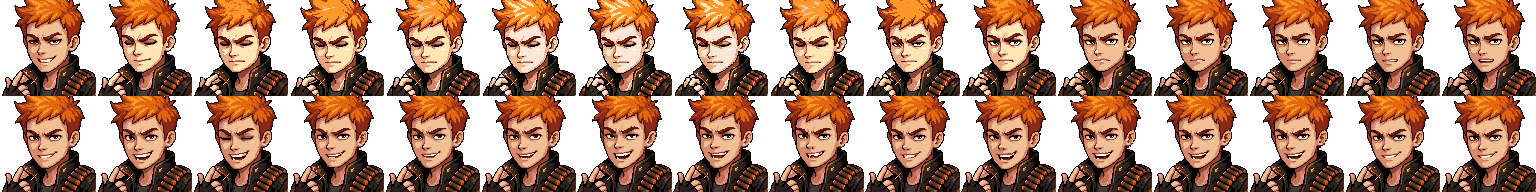
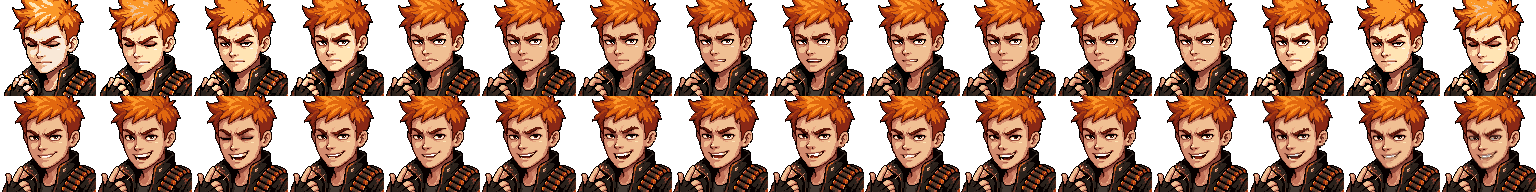
Polish character sprite sheets: seamless ping-pong idle loops, steadier frames; tighter idle prompt
Claude-Session: https://claude.ai/code/session_01KTGPHgov1KSS6g1jzDSq69

diff --git a/tests/ascent_art_guide.js b/tests/ascent_art_guide.js
@@ -20,7 +20,7 @@ for (const c of CH) MANIFEST.assets.push({
     id: c.id, group: 'characters', name: c.name, out: `spellslinger/art/characters/${c.id}.png`, kind: 'sheet', frame: [96, 96], cols: 16, rows: 2, seed: hash(c.id),
     steps: [
         { key: 'base', style: 'rd_pro__fantasy', width: 96, height: 96, prompt: charSubject(c), remove_bg: true },
-        { key: 'idle', style: 'rd_advanced_animation__idle', width: 96, height: 96, prompt: 'gentle breathing and one slow blink only, the mouth stays closed and completely still, the head barely moves, shoulders stay in place', frames_duration: 16, from: 'base' },
+        { key: 'idle', style: 'rd_advanced_animation__idle', width: 96, height: 96, prompt: 'a seamless idle loop: the very first and very last frame are the same pose. Gentle breathing and one slow blink only. The expression never changes from the starting drawing, the mouth stays closed and completely still, the head barely moves, shoulders stay in place, no lighting or color changes', frames_duration: 16, from: 'base' },
         { key: 'talk', style: 'rd_advanced_animation__custom_action', width: 96, height: 96, prompt: 'talking: the mouth opens and closes, the eyebrows move a little and the head tilts slightly, shoulders stay in place', frames_duration: 16, from: 'base' }
     ]
 });

diff --git a/tools/polish_sheets.py b/tools/polish_sheets.py
@@ -1,0 +1,154 @@
+#!/usr/bin/env python3
+"""Cleans up the character sprite sheets (spellslinger/art/characters/*.png) without calling the art service.
+
+The generated idle row isn't a loop: it starts on the base drawing, settles into a calm face and ends mid-blink, so replaying it
+pops every cycle. For each sheet this script
+  1. steadies the frames (removes whole-pixel wobble between frames, keeps slow movement such as breathing),
+  2. skips the settling-in frames at the start of the idle row,
+  3. picks the 9 frames with the most life and plays them forward then backward (a ping-pong of 16 frames), which loops with no seam,
+  4. steadies the talking row and fades its loop seam.
+Sheets stay 1536 x 192 (2 rows of 16 frames of 96 x 96), so the game needs no change. The originals are in git history.
+
+  python tools/polish_sheets.py            report only (what would change, seam before and after)
+  python tools/polish_sheets.py --write    rewrite the sheets in place
+  python tools/polish_sheets.py --only t1-mick --write
+"""
+import argparse
+import sys
+from pathlib import Path
+
+try:
+    import numpy as np
+    from PIL import Image
+except ImportError:
+    sys.exit('Needs numpy and Pillow:  pip install numpy pillow')
+
+ROOT = Path(__file__).resolve().parent.parent
+DIR = ROOT / 'spellslinger' / 'art' / 'characters'
+W = H = 96
+COLS = 16
+WINDOW = 9  # forward 9 + backward 7 = 16 frames, a seamless ping-pong
+
+
+def rows_of(im):
+    a = np.asarray(im.convert('RGBA'), dtype=np.float32)
+    return [[a[r * H:(r + 1) * H, c * W:(c + 1) * W] for c in range(COLS)] for r in (0, 1)]
+
+
+def gray(f):
+    return f[..., :3].mean(axis=2) * (f[..., 3] / 255.0)
+
+
+def diff(a, b):
+    return float(np.abs(a - b).mean())
+
+
+def shift(f, dx, dy):
+    """Moves a frame by whole pixels, filling the edge by repeating the nearest pixel (the portraits are full-bleed)."""
+    if not dx and not dy:
+        return f
+    p = 4
+    padded = np.pad(f, ((p, p), (p, p), (0, 0)), mode='edge')
+    return padded[p - dy:p - dy + H, p - dx:p - dx + W]
+
+
+def best_shift(ref, f, r=3):
+    g0, g1 = gray(ref), gray(f)
+    best, arg = None, (0, 0)
+    for dy in range(-r, r + 1):
+        for dx in range(-r, r + 1):
+            s = np.abs(g0[r:-r, r:-r] - np.roll(np.roll(g1, dy, 0), dx, 1)[r:-r, r:-r]).mean()
+            if best is None or s < best:
+                best, arg = s, (dx, dy)
+    return arg
+
+
+def steady(frames):
+    """Removes jitter: each frame's offset from the median frame is smoothed over its neighbours, and only the difference is undone."""
+    ref = np.median(np.stack(frames), axis=0)
+    sh = np.array([best_shift(ref, f) for f in frames], dtype=np.float32)
+    smooth = sh.copy()
+    for i in range(len(sh)):
+        lo, hi = max(0, i - 2), min(len(sh), i + 3)
+        smooth[i] = sh[lo:hi].mean(axis=0)
+    out = []
+    for f, s, m in zip(frames, sh, smooth):
+        out.append(shift(f, int(round(s[0] - m[0])), int(round(s[1] - m[1]))))
+    return out
+
+
+def seam(frames):
+    steps = [diff(frames[i], frames[i + 1]) for i in range(len(frames) - 1)]
+    return round(float(np.mean(steps)), 1), round(diff(frames[-1], frames[0]), 1)
+
+
+def pick_window(frames):
+    """Skips the settling-in frames, then takes the WINDOW frames that move the most."""
+    ref = np.median(np.stack(frames[8:]), axis=0)
+    d = [diff(f, ref) for f in frames]
+    base = float(np.median(d[8:])) + 0.5
+    start = 0
+    while start < len(frames) - WINDOW and d[start] > base * 1.6:
+        start += 1
+    # candidate windows: keep the ones with at least 40% of the best movement, then take the one with the smallest biggest jump
+    cands = []
+    for st in range(start, len(frames) - WINDOW + 1):
+        steps = [diff(frames[i], frames[i + 1]) for i in range(st, st + WINDOW - 1)]
+        cands.append((st, sum(steps), max(steps)))
+    top = max(c[1] for c in cands)
+    ok = [c for c in cands if c[1] >= top * 0.4] or cands
+    a = min(ok, key=lambda c: (c[2], -c[1]))[0]
+    return a, start
+
+
+def pingpong(win):
+    return win + win[-2:0:-1]  # 9 forward + 7 back = 16, the end frames are not repeated
+
+
+def fade_seam(frames, k=3):
+    """Blends the last k frames toward the first so a loop that isn't perfect still closes."""
+    out = list(frames)
+    n = len(out)
+    for i in range(k):
+        w = (i + 1) / (k + 1)
+        out[n - k + i] = out[n - k + i] * (1 - w * 0.5) + out[i] * (w * 0.5)
+    return out
+
+
+def build(path, write):
+    im = Image.open(path)
+    if im.size != (COLS * W, 2 * H):
+        return f'{path.name}: skipped (size {im.size})'
+    idle, talk = rows_of(im)
+    b_idle, b_talk = seam(idle), seam(talk)
+    idle_s = steady(idle)
+    a, start = pick_window(idle_s)
+    idle_new = pingpong(idle_s[a:a + WINDOW])
+    talk_new = fade_seam(steady(talk))
+    a_idle, a_talk = seam(idle_new), seam(talk_new)
+    if write:
+        sheet = np.zeros((2 * H, COLS * W, 4), dtype=np.float32)
+        for r, row in enumerate((idle_new, talk_new)):
+            for c, f in enumerate(row):
+                sheet[r * H:(r + 1) * H, c * W:(c + 1) * W] = f
+        Image.fromarray(np.clip(sheet.round(), 0, 255).astype(np.uint8), 'RGBA').save(path, 'PNG')
+    return (f'{path.stem:<16} idle step/seam {b_idle[0]:>4}/{b_idle[1]:>4} -> {a_idle[0]:>4}/{a_idle[1]:>4}   '
+            f'talk seam {b_talk[1]:>4} -> {a_talk[1]:>4}   (settle-in: first {start} frames skipped, window {a}-{a + WINDOW - 1})')
+
+
+def main():
+    ap = argparse.ArgumentParser()
+    ap.add_argument('--write', action='store_true')
+    ap.add_argument('--only')
+    a = ap.parse_args()
+    files = sorted(DIR.glob('*.png'))
+    if a.only:
+        files = [f for f in files if f.stem in a.only.split(',')]
+    for f in files:
+        print(build(f, a.write))
+    if not a.write:
+        print('\nReport only. Add --write to rewrite the sheets (originals stay in git history).')
+
+
+if __name__ == '__main__':
+    main()

diff --git a/CLAUDE.md b/CLAUDE.md
@@ -371,7 +371,8 @@ The owner's fan-made test game (renamed from "Moonshot Duels"): open packs, buil
 - **Samut, Hazoret's Champion deck (2026-10-16, reworked 2026-10-16: owner asked for big bombs through mana rocks and card draw, 7-8 mana by turn 4, same $200-300 budget):** mono-red ramp in `VERIFIED_DECKS` (key `samut`, `style: 'ramp'`, shown in Starter decks and as a Commander opponent). 99 cards, every one Automated and Commander-legal, red-only identity: 24 Mountains + 5 utility lands, about 29 rocks, rituals and mana creatures (Sol Ring, Mana Vault, Gilded Lotus, Thran Dynamo, Jeska's Will, Seething Song...), 10 card-draw pieces (Wheel of Fortune, Big Score, Skullclamp, Outpost Siege...) and about 20 bombs (Terror of the Peaks, Goldspan Dragon, Inferno Titan, Bonehoard Dracosaur, Embercleave...). **Price:** about $284 at the cheapest paper printing (Scryfall `prices.usd`, 2026-10-15; Mana Vault $92, Jeska's Will $40, Terror $26, Bonehoard $15, Ruby Medallion $14, Goldspan $11). Prices move; treat it as a budget guide. **Results** (lab, 150 random 4-player pods, style ramp): seat A won 51.3% (25% is a fair share; noise about 4 points). **Honest ramp numbers** (`/tmp` probe, measured at the combat step of A's own turn): average mana capacity 5.2 on its 4th turn, 7+ mana in 22% of games and 8+ in 12%; 6.2 on turn 5 (38% at 7+). The deck has enough rocks; what holds the number down is the AI, which casts creatures and spells before rocks (a mana rock scores 9, a creature 10 + 2 x cost), and a land-light or rock-light draw. To help, `rampUrgency` (`07b-playstyles.js`) gives a **Ramp-style computer player** a bonus for mana pieces when its hand holds expensive cards, so every Ramp bot now ramps sooner (pod results for the other styles shift a little). **Probe tooling:** the first line of a lab decklist `# style: ramp` picks the playstyle; `tests/lib/lab-page.js` wraps turns with a mana probe when `--decka` is used. **Fixed on the way:** Cut a Deal drew you a card for every card the opponents drew (now one per opponent who drew, `cutDeal`; test in `tests/suites/pod.js`); a spell that resolved onto the battlefield from someone else's zone kept its old controller field, so a later "gain control" effect left it in two battlefields and hung the game (`06-engine.js` spell resolution and `steal` now check). The list is `tests/decks/samut-hazorets-champion.txt`; `node tests/suites/cards.js cmdr` plays every card.
 - **Planeswalker's Ascent (campaign rebuild in progress, started 2026-10-18; plan in `docs/spellslinger-ascent-plan.md`):** replaces the old Campaign ladder and Precon Circuit once the screen is built (not yet; the old Campaign still runs). Done so far: the roster (`node tests/ascent_roster.js` writes `spellslinger/data/ascent-roster.json`, 2,042 cards on 2026-10-19 (1,479 pack cards + 563 trophies): vanilla, plain-keyword and simple-ability creatures, one-effect draw / destroy / exile / bounce / burn / shrink / pump spells, mana rocks, tapped duals, basics; rarity and tier by strength). **Wider pool (2026-10-19, owner: "mana dorks ... universal mana dorks ... more cards ... bigger and more diverse"):** creatures may now have up to two simple abilities from `ABILITY_RULES` in the builder: mana dorks (`{T}: Add {X}`, 30 cards), universal dorks (`{T}: Add one mana of any color`, 17 cards, kind `anydork`, tier 3), enters effects (gain life, draw, scry, each opponent discards or loses life, pump or +1/+1 counter on a creature, damage), dies effects (gain life, draw), firebreathing pumps and regenerate (263 `ability` creatures); plus landwalk, flash, shroud, fear and prowess keywords, 4 plain mana rocks (kind `rock`, type spell, no upgrades) and a basic-land ramp spell. Dorks and rocks are never in tier 1; universal ones are tier 3. Opponents' deck scoring likes mana makers for stomp / tempo / control and draw creatures for control / tempo / value. The Aether tap upgrade (`anymana`, 80 Aether, one ability per copy, not on cards that already tap for mana) gives any creature `{T}: Add one mana of any color`. **Trophies (2026-10-19, owner: "a method of ascertaining super powerful cards by getting so many wins from an opponent ... make the roster big"):** 563 trophy cards (rarity `trophy`, `kind: 'trophy'`) are in the roster file: any fully Automated, non-land, at most two colors, EDHREC rank 1200 or better card that isn't already in the roster (Auras, Sagas, Classes, Equipment, Vehicles, planeswalkers and battles left out; legendary allowed), strength = how played it is. Each of the 18 opponents holds 10 (`ascentTrophies`, deterministic, none shared, in the opponent's colors; tier 3 opponents hold the strongest, bosses a bit more) and awards one at exactly 3, 6, 10, 15, 20, 25, 30, 40, 50 and 75 wins against it (`ASCENT_TROPHY_WINS`; wins counted in `profile.ascent.wins[oppId]` by `ascentResult`, and the result line says "🏆 TROPHY ..."). They are never in packs, never craftable, dustable or upgradable, one copy each, and never played by the computer. The opponent panel shows all ten with their win counts; the collection has a 🏆 Trophy rarity filter and the card dialog says which opponent and how many wins. A new opponent colour pool may need more trophies: raise `TROPHY_MAX_RANK` in `tests/ascent_roster.js` and rerun it and `spellslinger/13c-ascent.js`: the exact 14-slot Play Booster (6 commons, 3 uncommons, rare with a 1-in-7 mythic, foil slot, wildcard 1-in-6 foil, basic, The List slot: a dual land or 1 in 8 a rare/mythic), the Collector Booster (14 foils, 5+ rares), the rule of 4 (5th copy dusts to Aether; basics unlimited), Aether (dust 5/20/60/200 by rarity, foil double; craft 20/80/240/800, foil double). Ascent has its own collection, decks and Aether in `profile.ascent` (`ascentState()`), separate from Sandbox and the Shop. `tests/suites/ascent.js` checks the odds over 20,000 packs.
   - **Gauntlet (step 3, `spellslinger/13d-ascent-gauntlet.js`):** `ASCENT_TIERS` (The Locals / easy AI, Friday Grinders / normal, The Pro Circuit / hard) and `ASCENT_OPPONENTS`: 18 opponents, five per tier plus a Planeswalker boss that opens after the other five; a tier opens when the one before it has its boss beaten. Each opponent has colors, an archetype (stomp, weenie, fliers, value, burn, control, tempo) and a playstyle. Its 40-card deck (17 lands, 23 spells, max 4 copies, tapped duals from tier 2) is built from the roster with a seeded generator, so it is the same every time (`ascentOpponentDeck`); tier 1 decks are nearly all creatures. **Signature cards** (`ascentSignatures`): 3 rare/mythic cards per opponent (4 for a boss, up to one tier above its own), never shared and never in packs, played by that opponent and dropped by it (always on the first win, 35% on later wins), which gives players a card to farm for. Prizes (`ascentResult`, called from `campaignResult` in `13-campaign.js` when `G.campaign.ascent`): a win adds a Play Booster to `profile.ascent.sealed` (unopened; the screen opens them), a boss adds 2 Play Boosters and a Collector Booster, a loss pays 5 Aether. `ascentStarter(color)` gives a one-color tier-1 deck and 3 packs once. `startAscentMatch(oppId, deckIndex)` starts a game; `ascentDeckProblems` checks owned copies and 40 cards. Rarity was rebalanced so mythics are about 8% of the non-land roster (ranked inside each type and color; `node tests/ascent_roster.js`). `node tests/lab.js --kind ascent` plays the 18 opponents against each other offline (360 games: 0 hangs or errors, median 16 turns). **Card upgrades (2026-10-18, owner's request: "upgrade cards to put more mechanics on them"; `spellslinger/13e-ascent-upgrades.js`, `tests/suites/ascentupg.js`):** owned cards are now per copy (`profile.ascent.owned[id] = { n, f, c: [{ k, f, u }] }`, `ascentOwnedEntry`, `ascentSyncOwned`; basics stay counts). A copy carries up to 2 upgrades (3 on a mythic) from `ASCENT_UPGRADES`: 10 keywords (first strike, vigilance, reach 30 Aether; trample, haste, lifelink 45; flying, deathtouch, menace 60; hexproof 75), 3 stat boosts (+1/+1, +2/+0, +0/+2; one per copy), 3 triggers (enters: draw a card; dies: gain 3 life; enters: gain 2 life; one per copy) and 2 spell extras (cantrip, gain 3 life). Price = base x rarity (common 1, uncommon 1.5, rare 2, mythic 3), paid in Aether and/or by feeding in spare plain copies of the same card (each covers 2x its dust value; `upgradeAscentCopy(key, upgradeId, sacrificeKeys)`). `swapAscentUpgrade` swaps or removes one for a quarter of the old upgrade's price (plus the new one's price). `ascentUpgradeBlocked` says why a copy can't take one. An upgraded copy plays as its own card (`ascentVariantCard`: id `<card id>~<upgrade ids>`, text and P/T rewritten, so the card reader understands it with no new rules; never saved in the card cache: ids with `~` are skipped by `persistCards`). Decks list their chosen copies in `deck.sel` (`ascentNormalizeDeck` fills it, upgraded copies first); `ascentPlayableCards` swaps in the variants; hand dusting skips copies in decks and upgraded ones unless named. Every card with every upgrade it can take reads as Automated (tested over the whole roster). The lab's ascent kind puts random upgrades on about 40% of the spell slots. **The screen (step 5, `spellslinger/13f-ascent-screen.js`, `tests/suites/ascentui.js`):** the Campaign tab now shows `#ascentApp` (`renderAscent`, called from `showView('campaign')`) with four tabs: **Map** (starter color pick, the 18 opponents by tier, an opponent panel with its signature cards and a Battle button), **Packs** (open Play / Collector Boosters from `profile.ascent.sealed`, 14 face-down cards to flip, extra copies shown as dusted), **Collection** (filters, 36 a page, a card dialog to craft, dust and open the upgrade dialog per copy) and **Decks** (deck list, per-copy chips to put exact copies in, basics, rename / delete). The old ladder and Precon Circuit are not deleted: they sit folded in `<details id="oldCampaign">` at the bottom and render only when opened (owner to say when they can go). The Packs and Collection & Decks tabs of Campaign mode still show the normal game's; Ascent is self-contained. No sideways scroll at 360 / 768 / 1280px. Starter decks top up creatures (up to 4 copies) before adding lands. **Campaign mode is self-contained and has characters and effects (2026-10-18, owner's request: "Campaign mode to have everything for itself", character profiles for Retro Diffusion sprites with placeholder dialogue, and animations while playing):** Campaign mode's tabs are now Home, Campaign and Rules only (`MODES.campaign.views`); the header shows ✨ Aether (`#aetherPill`) instead of coins and shop cash. **Characters** (`spellslinger/13g-ascent-art-data.js`, data only): 18 opponents plus 4 helpers (Pip the Guide on Map, Mara the Packmaster on Packs, Brindle the Aether Smith on Collection, Wren the Deckwright on Decks), each with a look, palette, mood and placeholder dialogue (intro, win, lose, taunt, tip). Dialogue shows in the opponent panel, in a "Let's play" prompt before a battle (`ascPlay` / `ascGo`) and as quotes on the result line (`ascentResult`); the taunt lines aren't used in games yet. **Art pipeline** (`13h-ascent-art.js`): the game looks once per page load for `spellslinger/art/characters/<id>.png` (1536 x 192 sheet, 2 rows of 16 frames of 96 x 96 head-and-shoulders portraits: idle, talking (16 is the most the service offers; sheets of 4 or 8 frames per row and the oldest 256-wide full-body sheets still display: the page reads the sheet's width, `ASC_ART.cols`)), `spellslinger/art/fx/<kind>.png` (horizontal strips) and uses them when they exist (`ascProbeArt`); until then it shows an emoji portrait (`.asc-portrait.ph`, bobs while talking) and a colored burst. **Effects while playing** (`ASCENT_FX`, 19 kinds): `fire()` calls `ascFxHook` for `enters` and `cast`: a land (one per basic color W/U/B/R/G, one for nonbasic), a creature when it enters (mono-color per color, colorless, multicolor; tokens skipped), and each non-creature spell when cast (instant, sorcery, artifact, enchantment, planeswalker, battle). `ascFxPlay` draws the effect over the card or the middle bar at 2x (max 4 at once, never throws). They play in every game, not only Ascent, and are off in autoplay, the lab and reduced motion; a checkbox on the Ascent screen turns them off (`ascentFx` in saved data); tests force them with `window.__FX_FORCE`. **Prompts for Retro Diffusion:** `node tests/ascent_art_guide.js` writes `docs/ascent-art-prompts.md` (every character, the 19 effects, 9 later ideas and 70 icons, banners and backgrounds, each with size, frames, file path and a copy-paste prompt). Edit the data file and rerun it; the icon and background list is not wired into screens yet. Retro Diffusion's style names weren't checked (it can't be run from here). `tests/suites/ascentart.js` covers all of it.  **Making the art (2026-10-21, owner's request):** `tools/make_art.py` (needs `requests` and `Pillow`; key from the `RD_API_KEY` environment variable only, never committed) reads `docs/ascent-art-manifest.json` (also written by `ascent_art_guide.js`) and calls the Retro Diffusion v2 API: free dry run by default (live style/size check, `check_cost` per step), `--go` to spend, `--only`, `--group characters,fx` (default; `ideas`, `icons` aren't wired in), `--max-spend`, `--force`, `--seed-bump`. A character = `rd_pro__fantasy` base (64x96) then `rd_advanced_animation__idle` and `__custom_action` from it, 16 frames each into the 1536x192 sheet (owner: 4 frames looked choppy, then asked for more; extra frames cost nothing, the service charges per animation; when the service returns fewer frames than a strip wants, the script holds frames instead of repeating the loop) (about $0.57 each, 22 = about $12.5); an effect = `rd_animation__vfx` (24-96px, scaled by whole steps, e.g. 128) (about $0.07 each). Steps cache in `tools/.art-cache/` (git-ignored). `--redo idle[,talk]` remakes only those steps of the chosen assets from the cached base drawing (add `--seed-bump 1` for a different result). A portrait talks for 3 seconds then settles into the idle row (CSS `.asc-portrait.sprite.talk`; only the Let's play prompt talks: the Map, the helpers and the opponent panel idle); the base prompt asks for a closed mouth and the idle prompt for a still mouth. Tested only against a mock server (this environment can't reach the API); the first real run should be one character.
-  - **White, tokens, anthems and losing (2026-10-19, owner: "white might have the most... but they suck", "token synergies as well as adding anthems"):** the roster builder (`tests/ascent_roster.js`) now reads **token makers** (instants and sorceries "Create N P/T ... creature tokens", optionally with flying / vigilance / lifelink / first strike: kind `tokens`, 24 cards), **anthems** (Enchantments "Creatures you control get +N/+N", "White creatures ...": kind `anthem`; and "Creatures you control have <keyword>": kind `grant`; both have `perm: true`), **lords** (creatures with "Other creatures you control get +1/+1", small or tribal versions, "Other creatures have <keyword>": kind `lord`), **token creatures** ("When ~ enters, create ... token": kind `tokencreature`, 49 cards) and conditional removal ("Destroy target creature with power / toughness N or greater", "Exile target attacking / tapped creature"). 96 cards added (roster 2,138 with the 563 trophies); nothing was removed. `ascentArchScore` rates them for weenie, fliers, value and tempo decks, so Annie and the other white and token opponents now play them. Anthems and grants take no spell extras (`ascentUpgradeBlocked`). **White starter** (`ascentStarterHelp`, `ascentStarterCards`): 3+1 token makers, 1 of the cheapest anthem and 1+1 cheap uncommon fliers, then tier 1 commons (first built stronger, then trimmed; see the starter table in the blue bullet). Before this help W won 47% vs Mossback Mick and 20% vs Candle Annie. Reproduce with `LAB_PAIR=W,t1-mick node tests/lab.js --kind ascent --n 100 --conc 5 --lb easy` (`LAB_PAIR` = starter color, opponent id). **Losses pay** (`ASCENT_PRIZE`, `ascentResult`): 5 Aether, or 15 while the deck has fewer than 3 rare-or-better cards (`ascentDeckIsRough`, so only new or stuck players get it; `G.campaign.deckIndex` says which deck played), and every second loss in a row gives a Play Booster (`st.lossStreak`; a win resets it). A win is still worth a pack every time. Tests: `tests/suites/ascentdecks.js`.
+  - **Sprite polish (2026-10-21, owner: "clean up ... get the animations looking tip top ... smooth ... still a bit rough"):** the generated idle rows weren't loops (they began on the base drawing, settled to a calm face and ended mid-blink, so each cycle popped; seams were 2-4 times a normal frame step). `python tools/polish_sheets.py [--write] [--only id]` (numpy + Pillow, no API calls) steadies whole-pixel wobble, skips the settling-in frames, picks the 9 calmest-but-lively frames and plays them forward then back (a 16-frame ping-pong, seamless by construction), and steadies the talking row with a soft seam fade; sheets stay 1536 x 192. Run on all 19 sheets: seams fell from about 20 to about 5 (Leo 21.7 to 0.4, Marcus's worst jump 50 to 12). Marcus's hood glow still pulses (his drawing has a light effect). The idle prompt in `tests/ascent_art_guide.js` now asks for a seamless loop with an unchanging expression for future `--redo idle` runs. Running polish twice would shorten the loop again, so run it once per freshly generated sheet.
+- **White, tokens, anthems and losing (2026-10-19, owner: "white might have the most... but they suck", "token synergies as well as adding anthems"):** the roster builder (`tests/ascent_roster.js`) now reads **token makers** (instants and sorceries "Create N P/T ... creature tokens", optionally with flying / vigilance / lifelink / first strike: kind `tokens`, 24 cards), **anthems** (Enchantments "Creatures you control get +N/+N", "White creatures ...": kind `anthem`; and "Creatures you control have <keyword>": kind `grant`; both have `perm: true`), **lords** (creatures with "Other creatures you control get +1/+1", small or tribal versions, "Other creatures have <keyword>": kind `lord`), **token creatures** ("When ~ enters, create ... token": kind `tokencreature`, 49 cards) and conditional removal ("Destroy target creature with power / toughness N or greater", "Exile target attacking / tapped creature"). 96 cards added (roster 2,138 with the 563 trophies); nothing was removed. `ascentArchScore` rates them for weenie, fliers, value and tempo decks, so Annie and the other white and token opponents now play them. Anthems and grants take no spell extras (`ascentUpgradeBlocked`). **White starter** (`ascentStarterHelp`, `ascentStarterCards`): 3+1 token makers, 1 of the cheapest anthem and 1+1 cheap uncommon fliers, then tier 1 commons (first built stronger, then trimmed; see the starter table in the blue bullet). Before this help W won 47% vs Mossback Mick and 20% vs Candle Annie. Reproduce with `LAB_PAIR=W,t1-mick node tests/lab.js --kind ascent --n 100 --conc 5 --lb easy` (`LAB_PAIR` = starter color, opponent id). **Losses pay** (`ASCENT_PRIZE`, `ascentResult`): 5 Aether, or 15 while the deck has fewer than 3 rare-or-better cards (`ascentDeckIsRough`, so only new or stuck players get it; `G.campaign.deckIndex` says which deck played), and every second loss in a row gives a Play Booster (`st.lossStreak`; a win resets it). A win is still worth a pack every time. Tests: `tests/suites/ascentdecks.js`.
   - **Starter balance and blue (2026-10-19, owner: "fix blue ... more sauce and maybe even more cards"):** measured every color's starter against the five tier 1 opponents (easy AI, 80 games each, `LAB_PAIR=<color>,<oppId> node tests/lab.js --kind ascent --n 80 --conc 5 --lb easy`). Before: W 75% average, G 61, R 60, B 56, **U 35** (6 to 14% against Annie, Tess and Gus). Red was fine (60%; its weak spots are the two flier decks), so it was left alone. The roster builder now also reads **counterspells** ("Counter target spell / creature spell / noncreature spell", optionally "unless its controller pays {N}": kind `counter`, `n` = the tax, 9 = unconditional, 8 = conditional on spell type), **bounce with a card** (kind `bounce`, `n` 1), **tap spells** (kind `tap`) and blue **tempo creatures** (kind `tempocreature`: "can't be blocked", "whenever ~ deals combat damage to a player, draw a card", enters: bounce a creature (Man-o'-War), tap a creature, or loot), plus Merfolk / Wizard / Faerie / Pirate / Bird / Illusion / Sphinx / Drake / Rogue tribal lords. 49 cards added (blue about 240 non-trophy cards); 3 cards that were trophies moved into the pool (trophy count 560). The blue starter (`ascentStarterHelp('U')`): 2+2 cheap fliers, 2 Man-o'-War style creatures, a bounce spell, a draw spell and a counterspell (highest tax first). After trimming (80 games each, vs Mick / Annie / Tess / Gus / Cal): **U 80 / 58 / 71 / 46 / 71 (65% average), W 79 / 61 / 80 / 50 / 73 (69%)**; G, R and B unchanged. Aim: every starter between about 55 and 70%; the lab AI plays better than most people, so these are relative numbers. `ascentArchScore` rates counters, taps and tempo creatures for tempo and control decks (Tess, Gus-style value). Tests: `tests/suites/ascentdecks.js`.
   - **Modules: effects by mana value, unlocked by scrapping (2026-10-19, owner: "a robust system of providing upgrades ... fun and grindy ... effects appropriate for mana values, bigger mana valued cards have some of the most game warping effects"; replaces the flat upgrade list in `13e-ascent-upgrades.js`, ids of the old 19 kept so saved copies still work):** `ASCENT_UPGRADES` now has about 90 modules, each with `cols` (colors it fits, or `C` for any card), `grade` and `cost`. **Grade from the card's mana value** (`ascentGrade`): 1 Minor (0-2), 2 Solid (3-4), 3 Strong (5), 4 Game-warping (6+); a card takes modules up to its own grade, so the big effects (wrath, reanimate, draw three, four counters, exile a creature, other creatures +2/+2, 5 damage...) only fit 6+ mana cards, and a 1-drop gets small tricks (first strike, scry, firebreathing, a green mana tap). **Color** (`ascentColorFit`): a card takes modules of its colors; a colorless card takes any for +50%; `C` modules fit all. Every color has creature and spell modules in all four grades (tested). Effects are written into the card's text as rules lines, so the card reader needs nothing new; every module was checked to read as Automated (`tests/suites/ascentupg.js` reads every card with every module it can take, and the lab puts one to three random modules on 40% of spell slots). **Price** (`ascentUpgradeCost`) = module base x rarity (1 / 1.5 / 2 / 3) x a steep stack factor for the Nth module on the same copy (`ASCENT_STACK_COST` 1, 1.5, 2.5, 4, 7, 12; at most `ASCENT_MAX_MODULES` = 6), paid in Aether and/or spare plain copies; base prices run about 20-45 (Minor), 60-100 (Solid), 180-250 (Strong), 450-700 (Game-warping). There is no cap on how strong a copy can get, only on what you will pay for it. **Unlocking:** Minor modules are free; Solid, Strong and Game-warping ones are unlocked for good with **salvage** (10 / 30 / 80, `ASCENT_UNLOCK_SALVAGE`) in the module's colors. Salvage comes from **scrapping** a spare copy (in no deck; `scrapAscentCard`, a "Scrap" button beside Dust): common 1, uncommon 3, rare 8, mythic 25 (foil x2), to each of the card's colors (colorless cards give `C`). Saved in `profile.ascent.salvage` and `.modules`; a module already on one of your copies counts as unlocked (older saves). Trophies cannot be scrapped. **Dust halved** (`ASCENT_DUST` 3 / 10 / 30 / 100; craft costs unchanged), so a Play Booster is worth about 140 Aether dusted (or about 8-12 salvage per color scrapped; measured over 3,000 packs). Screen: the upgrade dialog lists the modules that fit the card, grouped by grade, with what each does, its price (or "🔒 Unlock"), and why a module is blocked; "🧩 Modules" (Collection tab and the dialog) is the library by color; salvage shows under the Collection filters. Not built yet (offered to the owner): opponents that scale with your deck's power, a mana-cost tax for heavy upgrades, tapering repeat-win rewards. Tests: `tests/suites/ascentupg.js`.
   - **Deck power (2026-10-19, owner: "build a system that tracks deck power first ... how can we scale this out"; `spellslinger/13i-ascent-power.js`, fit by `tests/ascent_power_fit.py`, weights in `spellslinger/data/ascent-power.json`, tests `tests/suites/ascentpower.js`):** one Elo-like number for a 40-card deck. A deck is boiled down to features (`ascentDeckFeatures`): the sum of its spells' base strength (`base`, roster `power`, at least 0.5 each), how many modules it carries at each grade (`m1`-`m4`) and how many 5+ mana cards (`top`). A logistic regression fitted from lab games gives each feature a weight; the score is scaled so 400 points = 10-to-1 odds and shifted so an average tier 1 opponent (no boss) is 100. So 100 points apart is a 64% chance for the stronger deck, 200 points 76% (`ascentWinChance`, `ascentMatchupWords`). **Where it shows:** the Decks tab ("⚡ Power N" and a verdict against the next opponent you can fight), and the opponent panel (both powers and "about N%"). `ascentDeckPower(deck)` works from the copies you chose and needs no card data; `ascentOpponentPower(id)` rates an opponent's seeded deck. **Calibration** (`node tests/lab.js --kind ascentpool --n 14000 --conc 6`, about 15 minutes, then `python3 tests/ascent_power_fit.py`): the lab pool is 213 decks (the 18 opponents, 5 starters, 28 random two-color mixes and 20 top-heavy mixes, each with 0, 6 or 14 cards carrying 1-3 random modules); each seed plays two of them (seats alternate) and reports both decks' features; the fit writes the weights file and prints a calibration table. **Result on 2026-10-19 (14,000 games):** predicted and actual win rates agree within about 4 points in every gap bucket (e.g. a 100-200 gap: 69.6% predicted, 70.9% actual); held-out accuracy of one game's winner is 66% (a coin flip is 50%; single games are noisy). Weights (logit per unit): base 0.014, grade 1 module 0.052, grade 2 0.059, grade 3 0.053, **grade 4 0** (clamped from a negative fit), 5+ mana cards 0. **What the lab says about the game:** (1) modules add the same power per module whether they are Minor or Strong, and the game-warping ones (grade 4) add none that the lab can measure, even though they cost 5 to 20 times more, so grades 3-4 are priced above what they do (randomly chosen modules on the lab AI; some, like destroy-all and 3 damage to every other creature, hurt the owner's own board); (2) opponent powers: tier 1 about 90-124, tier 2 160-238, tier 3 161-397 (Arthur 396 and Trevor 397, Sam 304, Luke 241, but Brenda 161 and the boss 211), so the last league is badly uneven and its boss is weaker than half of its own league. Re-run the pool and the fit after changing cards, modules or the AI; nothing else needs touching. **Scaling it out (not built, offered):** opponents that add modules until they match a target power, rewards and Aether that grow with the power gap, a per-module audit (same deck with and without one module) to fix the module prices, and a daily challenge at a fixed power.
